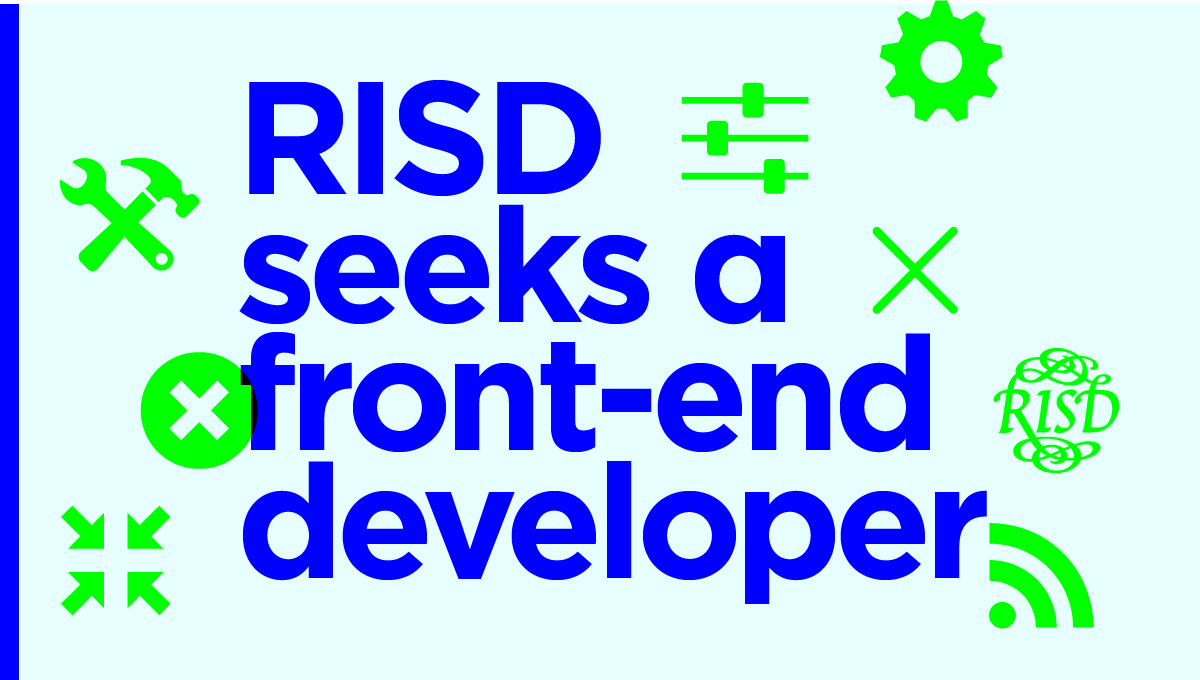
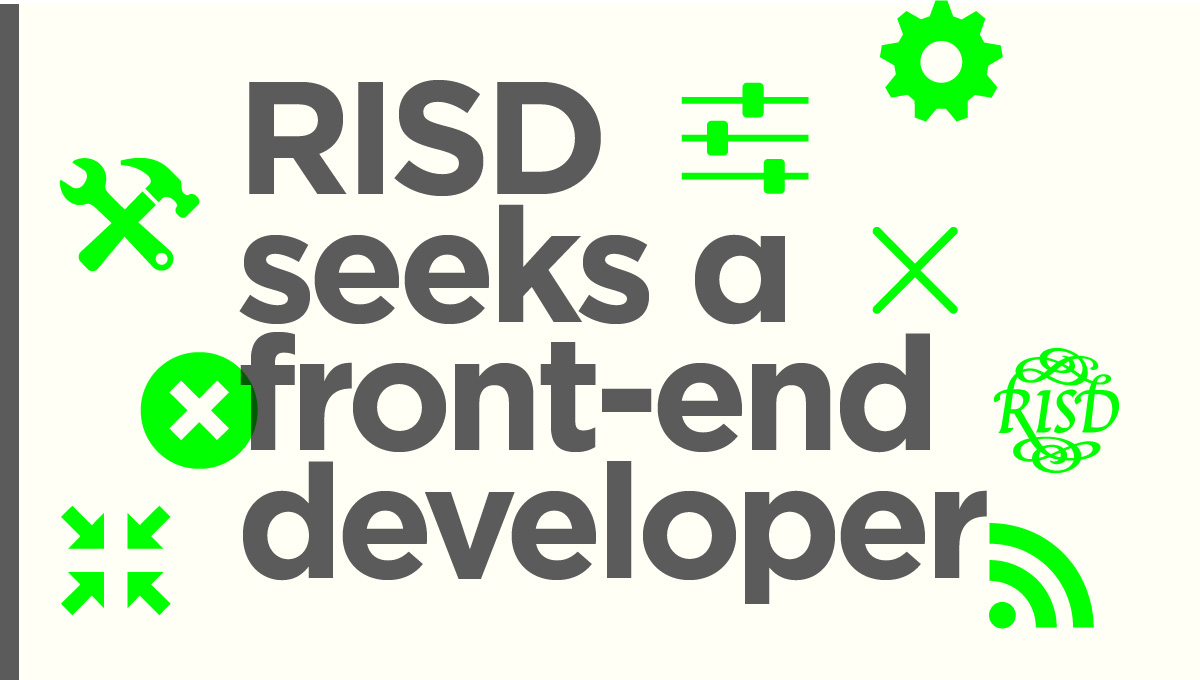
color adjustments

diff --git a/_sass/modules/header.scss b/_sass/modules/header.scss
@@ -28,7 +28,9 @@ body{
 			display:inline-block;
 			transform:translateX(-30em);
 			transition:transform 1s cubic-bezier(0.35, 0.01, 0.18, 1.16);
-
+			&:hover{
+				transform:translateY(-0.25em);
+			}
 			&.word-one{
 				transition-delay:0.5s;
 			}
@@ -117,9 +119,14 @@ li{
 	list-style:none;
 	text-indent:-1em;
 	margin-left:1em;
+	transition:transform 0.2s ease-in-out;
 	&:before{
 		content:"→ ";
-		@extend %color-shift
+		@extend %color-shift;
+	}
+	
+	&:hover{
+		transform:translateX(1em);
 	}
 
 	a{
@@ -257,7 +264,9 @@ li{
 	mix-blend-mode:multiply;
 
 	svg{
-
+		&:hover{
+			transform:scale(2.0);
+		}
 		path,
 		polygon{
 			@extend %fill-shift-reverse;
@@ -271,6 +280,9 @@ li{
 		};
 		@include respond-above(medium){
 			max-width:7rem;		
+		};
+		@include respond-above(large){
+			max-width:10rem;
 		};
 	}
 	
@@ -320,6 +332,7 @@ li{
 		top:20vh;
 		right:5em;
 		animation:spin 1.5s ease-in-out infinite;
+		transform:scale(2);
 	}
 
 	#tools{
@@ -339,11 +352,15 @@ li{
 	#risd-seal{
 		right:-2vw;
 		top:-2em;
+		animation: spin 2s ease-in-out alternate-reverse infinite;
+		transform:scale(2);
+
 	}
 
 	#arrows{
 		left:10vw;
 		top:60vh;
+		transform:scale(2);
 		polygon{
 			transform-origin:50% 50%;
 		}

diff --git a/_sass/modules/animations.scss b/_sass/modules/animations.scss
@@ -1,50 +1,56 @@
+$pop-color-1: rgb(0,255,0);
+$pop-color-2: rgb(91,91,91);
+
+$bg-color-1:rgb(255,255,245);
+$bg-color-2:rgb(255,255,245);
+
 @keyframes colorShift{
 	from{
-		color:rgb(0,0,255);
+		color:$pop-color-1;
 	} to{
-		color:rgb(0,255,0);
+		color:$pop-color-2;
 	}	
 }
 
 @keyframes borderShift{
 	from{
-		border-color:rgb(0,0,255);
+		border-color:$pop-color-1;
 	} to {
-		border-color:rgb(0,255,0);
+		border-color:$pop-color-2;
 	}
 }
 
 @keyframes backgroundShift{
 	from{
-		background-color:rgb(0,0,255);
+		background-color:$pop-color-1;
 	} to{
-		background-color:rgb(0,255,0);
+		background-color:$pop-color-2;
 	}
 }
 
 @keyframes fillShift{
 	from{
-		fill:rgb(0,0,255);
+		fill:$pop-color-1;
 	} to {
-		fill:rgb(0,255,0);
+		fill:$pop-color-2;
 	}
 }
 
 @keyframes bodyShift{
 	from{
-		background:rgb(220,255,255); 
+		background:$bg-color-1; 
 
 	} to {
-		background:rgb(255,255,245); 
+		background:$bg-color-2; 
 	}
 }
 
 @keyframes knockoutShift{
 	from{
-		color:rgb(220,255,255); 
+		color:$bg-color-1; 
 
 	} to {
-		color:rgb(255,255,245); 
+		color:$bg-color-2; 
 	}
 }
 
